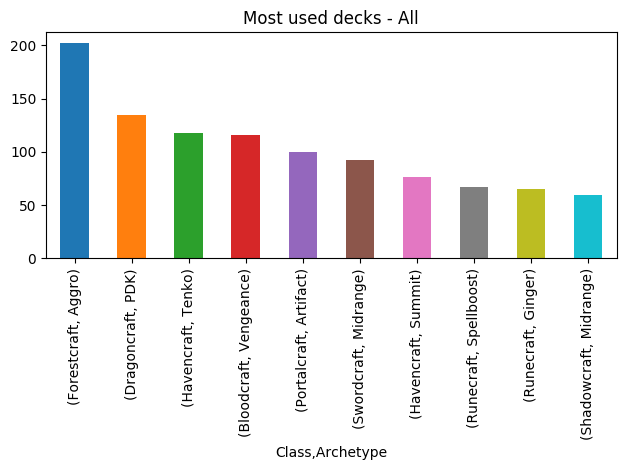
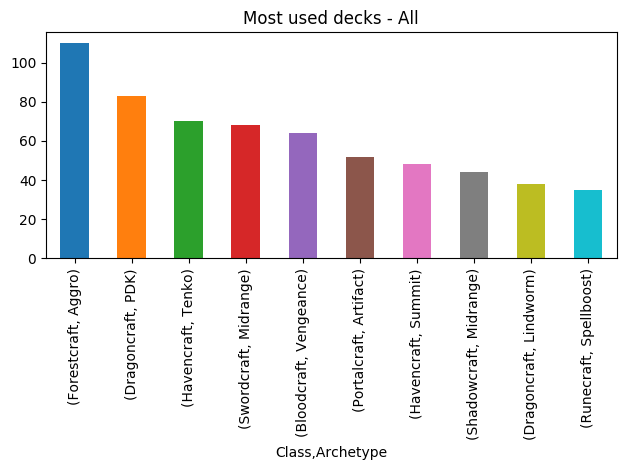
Fixed most used deck count

diff --git a/tools.py b/tools.py
@@ -71,8 +71,14 @@ def stack_match(df, c=None):
 
 
 def most_popular_n(df, n=10):
-    df0 = stack_match(df)
-    return count_col(df0, ['Class', 'Archetype']).nlargest(n)
+    # Opponent single
+    df0 = df.copy()
+    df0[['Class', 'Archetype', 'Class_o', 'Archetype_o']] = df0[['Class_o', 'Archetype_o', 'Class', 'Archetype']]
+
+    # User Once Only
+    df1 = df.copy().drop_duplicates(['Timestamp'])
+
+    return count_col(pd.concat([df0, df1]), ['Class', 'Archetype']).nlargest(n)
 
 
 def best_decks_n(df, n=10, mincount=10):
